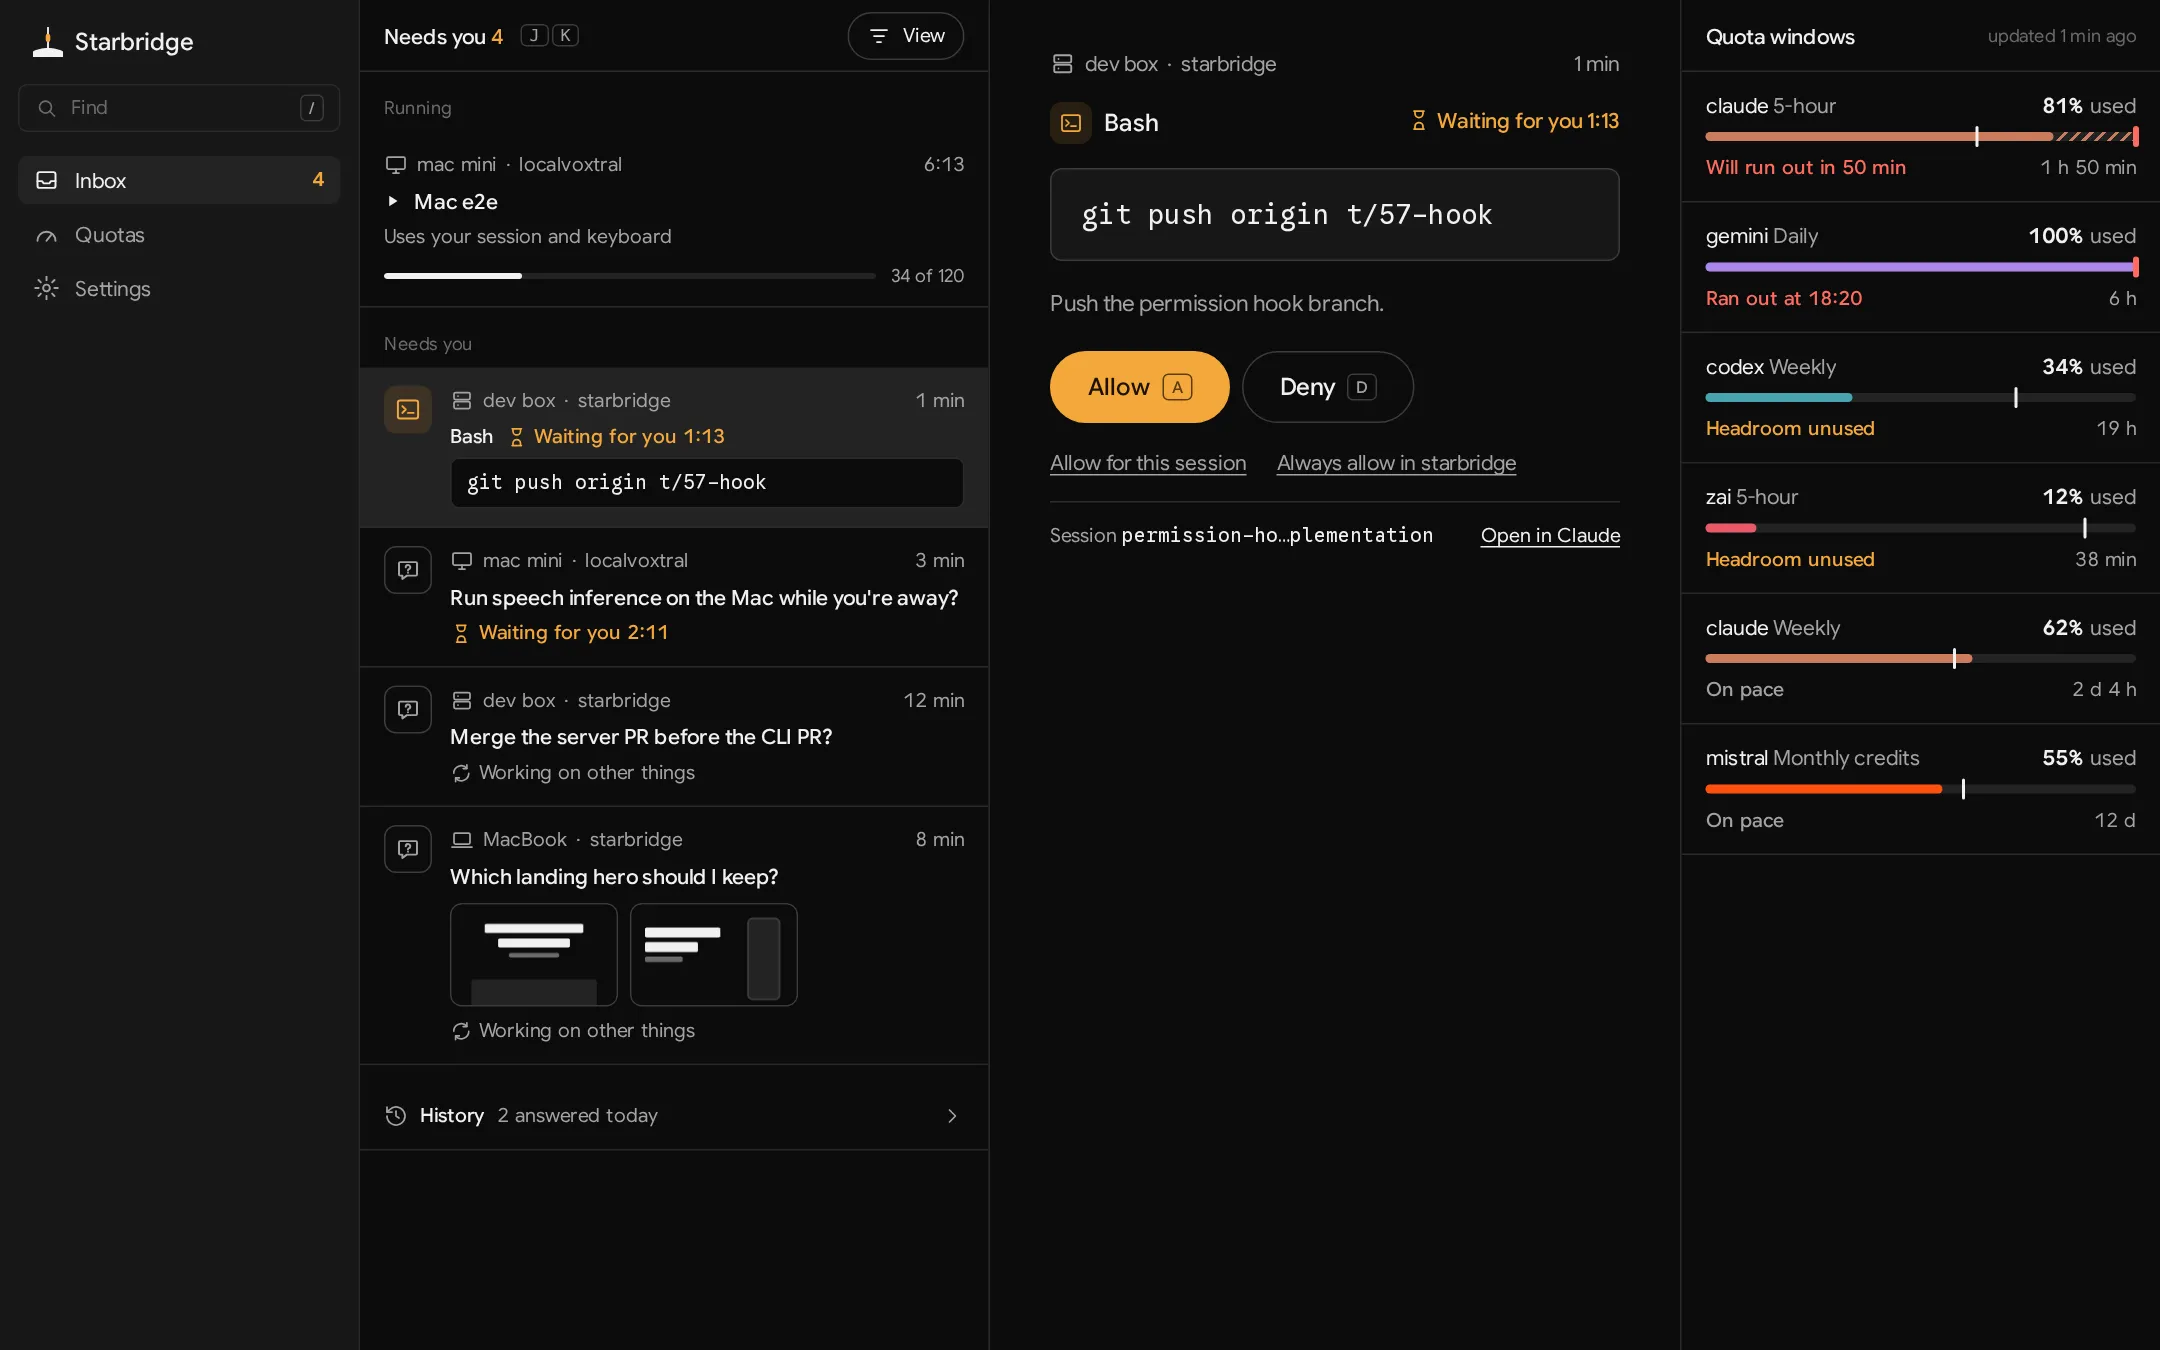
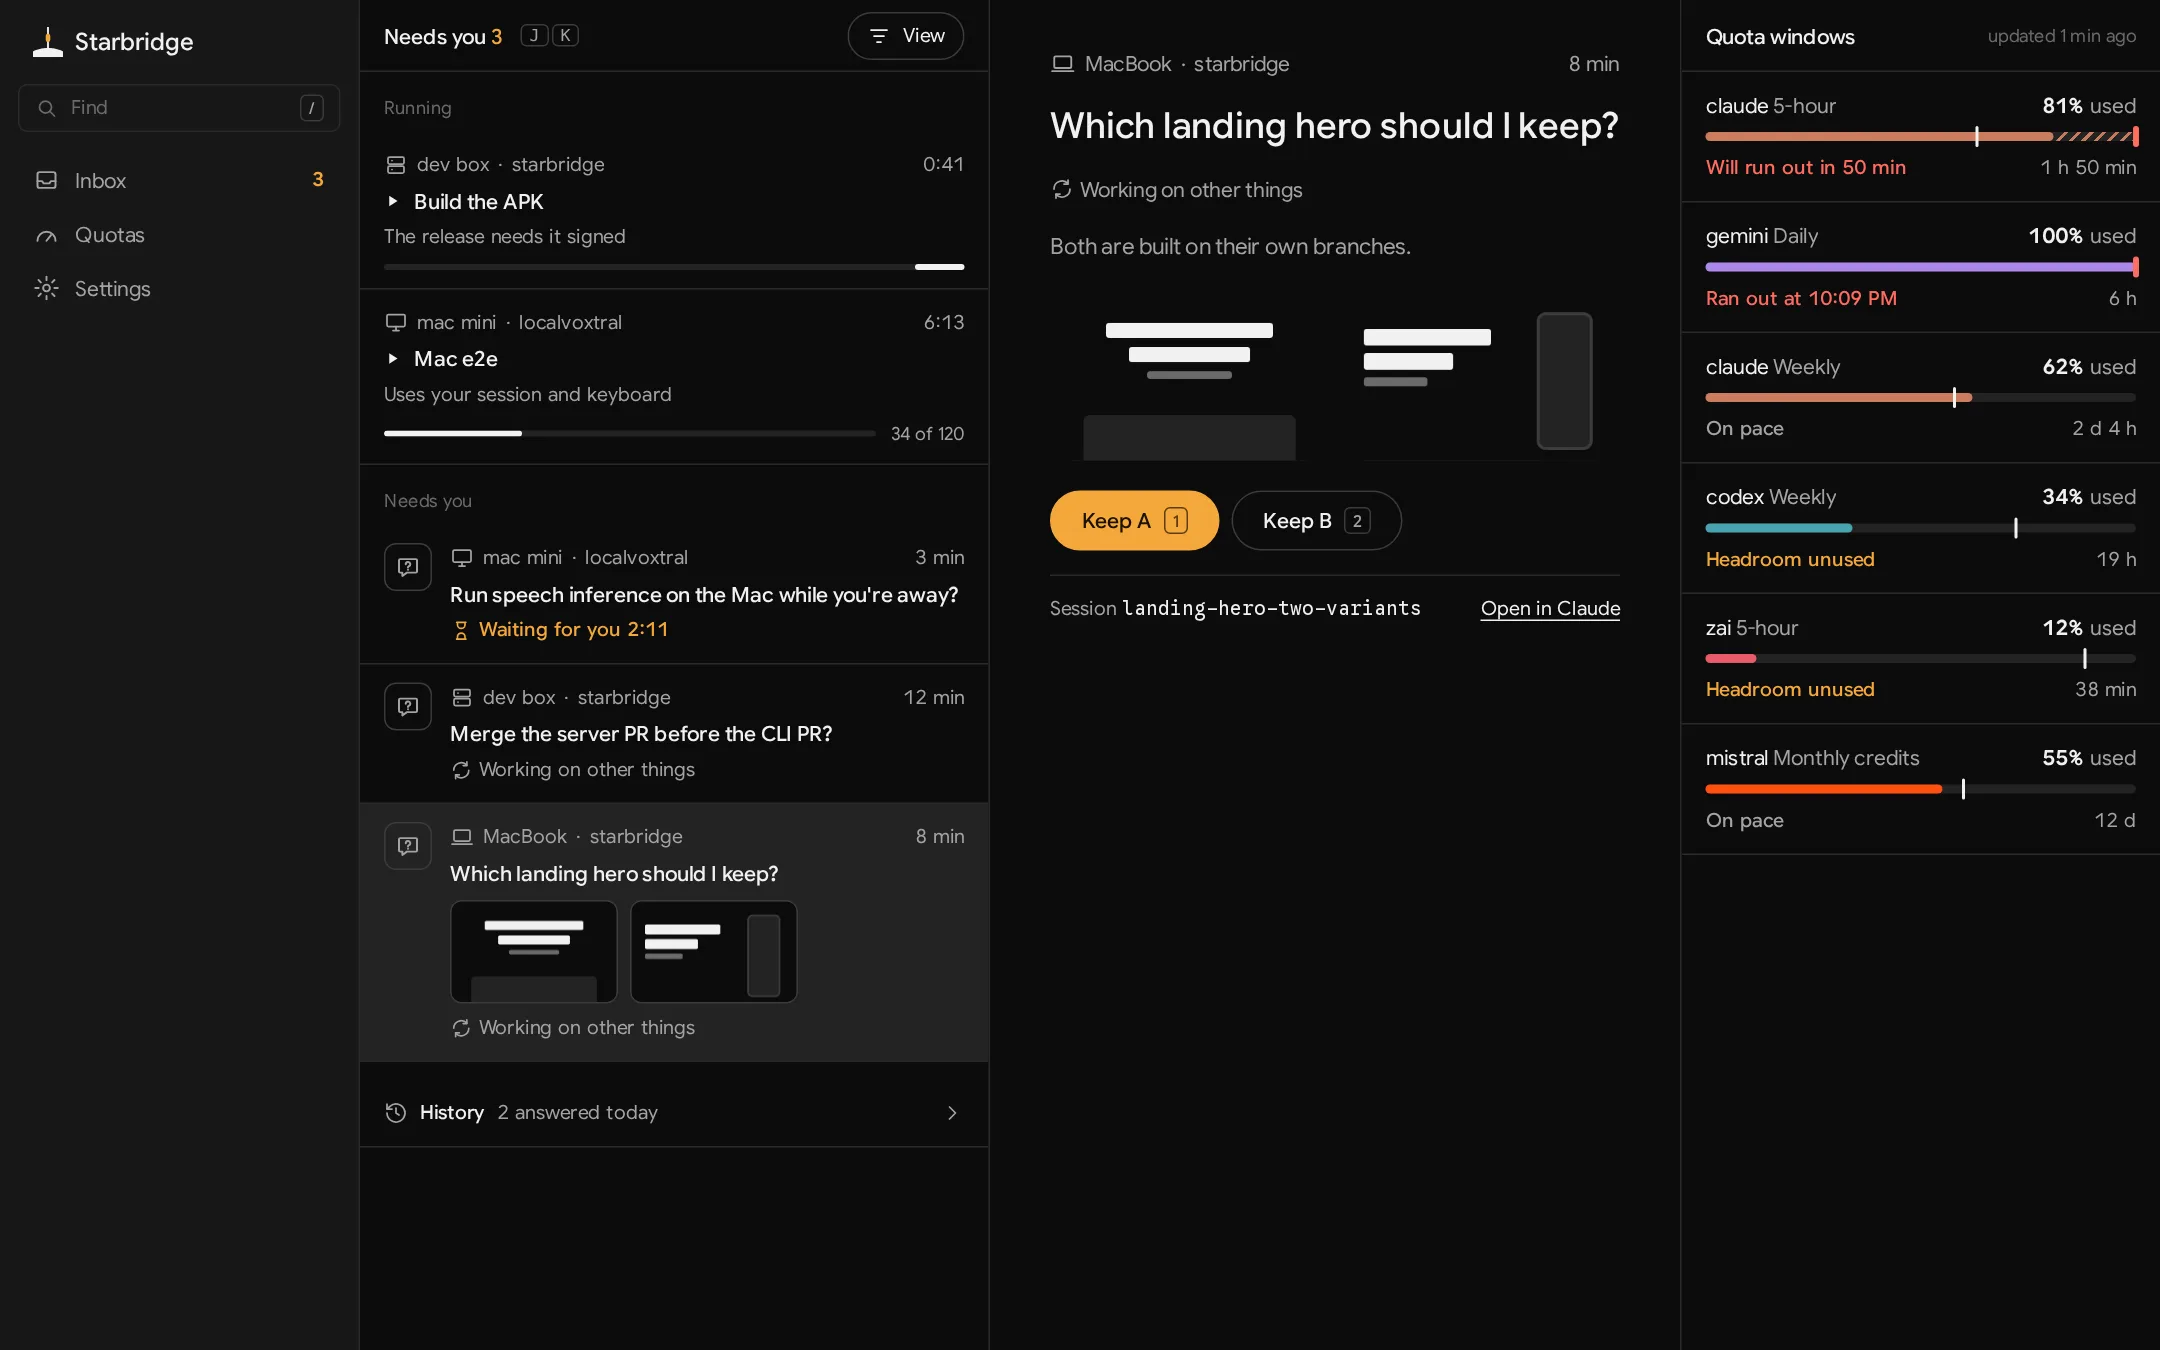
Landing leads with questions; a revoked browser gets the landing page

diff --git a/web/src/components/Landing.tsx b/web/src/components/Landing.tsx
@@ -12,7 +12,8 @@ import { QuotaGroup } from "./QuotaRow";
 import ui from "./ui.module.css";
 
 // Product shots in public/landing, at 1.5x for the web inbox and 2x for the phones:
-//   web-inbox-*      the app at /sample (development only), 1440 by 900, its data the mockups'
+//   web-inbox-*      the app at /sample-hero (development only), 1440 by 900, the question
+//                    with images selected
 //   android-*        the design v2 mockups' Android inbox, question sheet and lock screen
 // Each comes dark and light; `<picture>` picks the one the browser asks for.
 function Shot({
@@ -52,10 +53,10 @@ function Phone({ name, alt }: { name: string; alt: string }) {
 }
 
 const FEATURES = [
-  ["Quota windows", "Every plan's limits on one screen, read from CodexBar."],
-  ["Questions", "An agent asks and keeps working. Your tap becomes its next prompt."],
-  ["Permission prompts", "A blocked tool call, the exact command, Allow or Deny."],
+  ["Questions", "An agent asks, with code or images. Your tap becomes its next prompt."],
   ["Runs", "Long commands that need you at the machine, live on your lock screen."],
+  ["Quota windows", "Every plan's limits on one screen, read from CodexBar."],
+  ["Permission prompts", "Off unless you turn them on: the exact command, Allow or Deny."],
 ] as const;
 
 const INSTALL = [
@@ -165,8 +166,9 @@ export function Landing({ onOwnerToken }: { onOwnerToken: () => void }) {
           You answer from anywhere.
         </h1>
         <p className={`t-lead ${s.dim} ${s.lead}`}>
-          Quota windows, questions and permission prompts from every coding agent, answered with one
-          tap<span className={s.wideOnly}> and pushed back into the session</span>.
+          Questions from every coding agent, with their code and images, answered with one tap
+          <span className={s.wideOnly}> and pushed back into the session</span>. Runs and quota
+          windows on the same screen.
         </p>
         <div className={s.actions}>
           <a href="/v1/auth/github" className={`t-action ${ui.btn} ${ui.lg} ${ui.fill}`}>
@@ -193,7 +195,7 @@ export function Landing({ onOwnerToken }: { onOwnerToken: () => void }) {
           </div>
           <Shot
             name="web-inbox"
-            alt="The web inbox: a permission prompt selected beside the list, quota windows on the right"
+            alt="The web inbox: a question with two images open beside the list, quota windows on the right"
             width={2160}
             height={1350}
             className={s.browserShot}
@@ -267,7 +269,8 @@ export function Landing({ onOwnerToken }: { onOwnerToken: () => void }) {
             Starbridge
           </span>
           <span className={s.dim}>
-            Your phone, browsers and machines hold the keys. The server stores only ciphertext.
+            Only your own phone, browsers and machines can read your questions, answers and quotas.
+            The server cannot.
           </span>
         </div>
         <div className={s.footCol}>

diff --git a/web/src/components/SampleProvider.tsx b/web/src/components/SampleProvider.tsx
@@ -7,13 +7,27 @@ import { type Store, StoreContext } from "./AppProvider";
 
 const noop = async () => {};
 
-/** The app's store filled with the mockups' data, for product shots: answers go nowhere. */
-export function SampleProvider({ children }: { children: React.ReactNode }) {
+/**
+ * The app's store filled with the mockups' data, for product shots: answers go nowhere.
+ * `landing` leaves out the permission prompt, which would top the list, and the lost run: the
+ * landing page leads with questions.
+ */
+export function SampleProvider({
+  landing = false,
+  children,
+}: {
+  landing?: boolean;
+  children: React.ReactNode;
+}) {
   const store = useMemo<Store>(() => {
     const { devices, ...s } = sample();
     return {
       boot: { state: "loading" },
       ...s,
+      ...(landing && {
+        prompts: [],
+        runs: { ...s.runs, items: s.runs.items.filter((i) => i.run.id !== "r3") },
+      }),
       sampleDevices: devices,
       reload: noop,
       answer: noop,
@@ -25,6 +39,6 @@ export function SampleProvider({ children }: { children: React.ReactNode }) {
       loadPromptLog: noop,
       deviceName: (id) => id,
     };
-  }, []);
+  }, [landing]);
   return <StoreContext.Provider value={store}>{children}</StoreContext.Provider>;
 }

diff --git a/server/src/auth.ts b/server/src/auth.ts
@@ -95,6 +95,15 @@ export function identify(c: Context<Env>): Caller | undefined {
   };
 }
 
+/** The caller's session belonged to a device the directory has since revoked. */
+function wasRevoked(c: Context<Env>): boolean {
+  const token = bearer(c) ?? getCookie(c, SESSION_COOKIE);
+  if (!token) return false;
+  return !!c.var.db
+    .query("SELECT 1 FROM revoked_sessions WHERE token_hash = ? AND expires_at >= ?")
+    .get(hashToken(token), new Date().toISOString());
+}
+
 type Need = "device" | "paired-device" | "machine" | "any" | "paired";
 
 /**
@@ -104,7 +113,7 @@ type Need = "device" | "paired-device" | "machine" | "any" | "paired";
 export function requireCaller(...needs: Need[]): MiddlewareHandler<Env> {
   return async (c, next) => {
     const caller = identify(c);
-    if (!caller) fail(401, "unauthenticated");
+    if (!caller) fail(401, wasRevoked(c) ? "revoked" : "unauthenticated");
     const admits: Record<Need, boolean> = {
       any: true,
       device: caller.role === "device",

diff --git a/web/src/components/Landing.module.css b/web/src/components/Landing.module.css
@@ -20,7 +20,8 @@
 }
 
 .top {
-  display: flex;
+  display: grid;
+  grid-template-columns: 1fr auto 1fr;
   align-items: center;
   gap: var(--s8);
   height: var(--s18);
@@ -35,7 +36,6 @@
 .nav {
   display: flex;
   gap: var(--s8);
-  margin: 0 auto;
 }
 
 .nav a {
@@ -48,6 +48,7 @@
 }
 
 .signIn {
+  justify-self: end;
   height: calc(var(--s8) + var(--s1));
   padding: 0 var(--s4);
 }
@@ -390,6 +391,7 @@
 
 @media (max-width: 599px) {
   .top {
+    grid-template-columns: 1fr auto;
     height: var(--size-top-web);
   }
 
@@ -398,7 +400,6 @@
   }
 
   .signIn {
-    margin-left: auto;
     height: var(--s8);
     padding: 0 var(--s3);
   }

diff --git a/server/src/routes/directory.ts b/server/src/routes/directory.ts
@@ -62,6 +62,10 @@ function syncMembers(db: Database, account: string, dir: Directory): void {
   for (const { member, active } of dir.members.values()) {
     upsert.run(account, member.id, member.role, member.boxPk, member.signPk, active ? 1 : 0);
     if (!active) {
+      db.query(
+        `INSERT OR IGNORE INTO revoked_sessions (token_hash, expires_at)
+         SELECT token_hash, expires_at FROM sessions WHERE account_id = ? AND member_id = ?`,
+      ).run(account, member.id);
       db.query("DELETE FROM sessions WHERE account_id = ? AND member_id = ?").run(
         account,
         member.id,

diff --git a/server/test/directory.test.ts b/server/test/directory.test.ts
@@ -161,5 +161,8 @@ test("revoking a machine drops its token; revoking a device ends its sessions", 
   await revoke(s, acct, "devbox");
   await revoke(s, acct, "laptop");
   expect((await s.call("GET", "/v1/me", { token: m.token })).status).toBe(401);
-  expect((await s.call("GET", "/v1/me", { token: laptop.token })).status).toBe(401);
+  const me = await s.call("GET", "/v1/me", { token: laptop.token });
+  expect(me.status).toBe(401);
+  // The revoked device's browser learns why, so it shows the landing page, not sign-in.
+  expect(me.json.error).toBe("revoked");
 });

diff --git a/web/src/app/sample-hero/page.tsx b/web/src/app/sample-hero/page.tsx
@@ -1,0 +1,17 @@
+import { notFound } from "next/navigation";
+import { Inbox } from "@/components/Inbox";
+import { SampleProvider } from "@/components/SampleProvider";
+import { Shell } from "@/components/Shell";
+
+// The landing page's browser shot: the sample inbox as SampleProvider's `landing` trims it, in
+// development only.
+export default function SampleHero() {
+  if (process.env.NODE_ENV === "production") notFound();
+  return (
+    <SampleProvider landing>
+      <Shell>
+        <Inbox />
+      </Shell>
+    </SampleProvider>
+  );
+}

diff --git a/server/src/db.ts b/server/src/db.ts
@@ -19,6 +19,13 @@ CREATE TABLE IF NOT EXISTS sessions (
   expires_at TEXT NOT NULL
 );
 
+-- Sessions of revoked devices, kept until they would have expired so a revoked browser hears
+-- why it is signed out.
+CREATE TABLE IF NOT EXISTS revoked_sessions (
+  token_hash TEXT PRIMARY KEY,
+  expires_at TEXT NOT NULL
+);
+
 -- App sign-in codes waiting to be traded for a session; challenge is the S256 PKCE challenge.
 CREATE TABLE IF NOT EXISTS app_codes (
   code_hash TEXT PRIMARY KEY,

diff --git a/server/src/retention.ts b/server/src/retention.ts
@@ -29,6 +29,7 @@ export function sweepStorage(db: Database, limits: Limits, now = Date.now()): vo
          WHERE m.account_id = items.account_id AND m.id = items.from_id AND m.active = 1)`,
     ).run();
     db.query("DELETE FROM sessions WHERE expires_at < ?").run(new Date(now).toISOString());
+    db.query("DELETE FROM revoked_sessions WHERE expires_at < ?").run(new Date(now).toISOString());
     db.query("DELETE FROM app_codes WHERE expires_at < ?").run(now);
   })();
 }

diff --git a/web/src/lib/device.ts b/web/src/lib/device.ts
@@ -158,6 +158,8 @@ export async function boot(): Promise<Boot> {
   } catch (e) {
     if (e instanceof ApiError && e.status === 401) {
       const last = await store.get("current");
+      // Its device was revoked: this browser is a visitor again, not a device signing back in.
+      if (last && e.code === "revoked") await store.del("device", last);
       return { state: "signed-out", known: !!last && !!(await store.get("device", last)) };
     }
     throw e;

diff --git a/PROTOCOL.md b/PROTOCOL.md
@@ -147,7 +147,8 @@ errors use the codes in `packages/protocol/src/sodium.ts`.
 - Pairing requests are unauthenticated and rate-limited per IP.
 - A session gets its device when that session writes the directory's first entry, or a
   recovery-signed `add`, or fetches its own pairing result (a new device signs in first).
-  Revoking a device ends its sessions; revoking a machine drops its token.
+  Revoking a device ends its sessions, which then get 401 `revoked` instead of
+  `unauthenticated` until they would have expired; revoking a machine drops its token.
 
 | Route | Who | What |
 |---|---|---|
